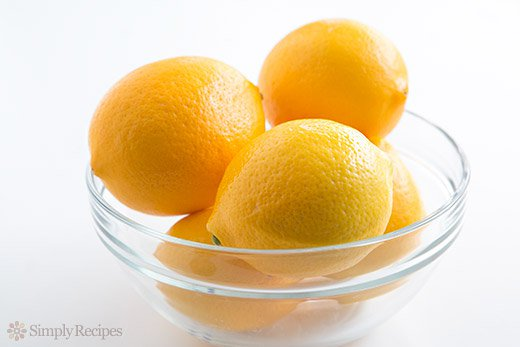
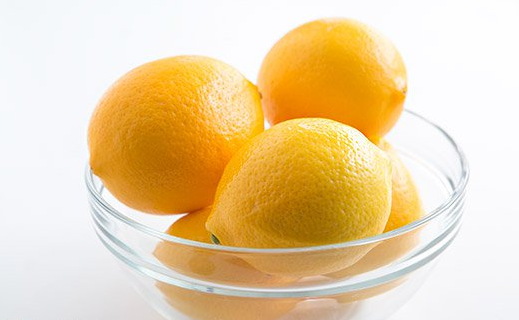
- Fixed lemon image - Fixed csv files

diff --git a/hobby/src/main/java/edu/virginia/psyc/hobby/domain/HobbyStudy.java b/hobby/src/main/java/edu/virginia/psyc/hobby/domain/HobbyStudy.java
@@ -112,6 +112,26 @@ public class HobbyStudy extends BaseStudy {
         session2.setIndex(0);
         session2.addTask(new Task("JsPsychTrial", "Training Stories", Task.TYPE.jspsych, 20));
         sessions.add(session2);
+
+        session3 = new Session(THIRD_SESSION, "Day 3", 0, 1);
+        session3.setIndex(0);
+        session3.addTask(new Task("JsPsychTrial", "Training Stories", Task.TYPE.jspsych, 20));
+        sessions.add(session3);
+
+        session4 = new Session(FOURTH_SESSION, "Day 4", 0, 1);
+        session4.setIndex(0);
+        session4.addTask(new Task("JsPsychTrial", "Training Stories", Task.TYPE.jspsych, 20));
+        sessions.add(session4);
+
+        session5 = new Session(FIFTH_SESSION, "Day 5", 0, 1);
+        session5.setIndex(0);
+        session5.addTask(new Task("JsPsychTrial", "Training Stories", Task.TYPE.jspsych, 20));
+        sessions.add(session5);
+
+        session6 = new Session(SIXTH_SESSION, "Day 6", 0, 1);
+        session6.setIndex(0);
+        session6.addTask(new Task("JsPsychTrial", "Training Stories", Task.TYPE.jspsych, 20));
+        sessions.add(session6);
         return sessions;
     }
 }
